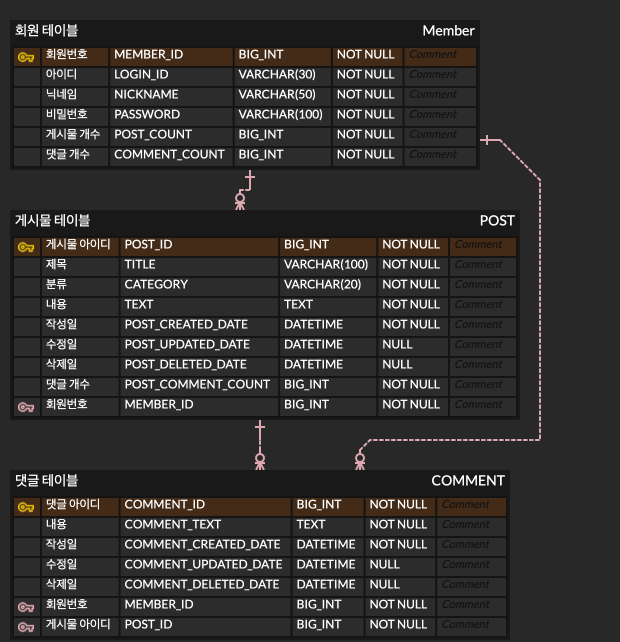
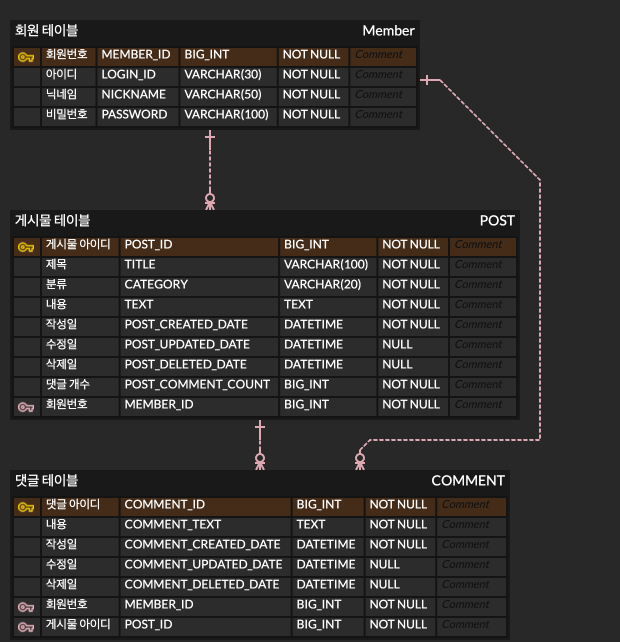
Chore: README.md, ERD 수정

diff --git a/README.md b/README.md
@@ -15,39 +15,37 @@
             - 로그인 시 회원 전용 기능(게시물, 댓글 관리) 사용 가능
         - 로그아웃
     - 회원정보 조회 기능
-        - 아이디(중복 불가, 생성 후 변경 불가)
+        - 아이디(변경 불가)
         - 닉네임 확인 및 변경(중복 불가)
         - 비밀번호 변경
         - 작성한 게시물, 댓글 개수 확인
 - 게시물
     - 전체 게시물 조회 기능
         - 게시물 정렬 기능(최신순, 오래된 순, 댓글 많은 순, 댓글 적은 순)
-        - 페이징 처리(10개씩)
-    - 게시물 검색 기능(제목, 분류, 작성자, 작성일 기준으로)
+        - 페이징 처리
+    - 게시물 검색 기능(제목, 분류, 닉네임, 작성일 & 회원번호(회원 페이지에서 본인이 작성한 게시글 조회를 위해))
     - 로그인 시
-        - 본인이 작성한 게시물 조회 기능(회원페이지에서)
-        - 게시물 작성 기능
-        - 게시물 수정 기능
-          - 수정 시 수정일 등록
-        - 게시물 삭제 기능
-          - 삭제 시 삭제일 등록
+        - 본인이 작성한 게시물 조회 기능(회원페이지에서 사용, 위에서 개발한 게시물 검색 기능 이용)
+        - 게시물 작성, 수정, 삭제 기능
+        - 회원별 게시글 개수 확인 api
 - 댓글
     - 게시물 조회 시 전체 댓글 조회 기능
-        - 페이징 처리(15개씩)
+        - 페이징 처리
     - 로그인 시
         - 본인이 작성한 댓글 조회 기능(회원페이지에서)
-        - 댓글 작성 기능 
-        - 댓글 수정 기능
-          - 수정 시 수정일 등록
-        - 댓글 삭제 기능
-          - 삭제 시 삭제일 등록
+        - 댓글 작성, 수정, 삭제 기능
+        - 회원별 댓글 개수 확인 api
 - 추후 추가 예정
     - 회원 등급 : 웰컴, 패밀리
         - 웰컴 : 회원가입 시 등급
         - 패밀리 : 게시물 10개, 댓글 10개 작성 시 자동으로 승급
-        - 등급에 따른 혜택은 추후 설정
+        - 등급에 따른 혜택은 추후 고민 예정
+        - 회원 등급 심사 기능
+            - 심사 버튼을 누르면 회원의 게시물, 댓글 개수가 승급 기준에 맞는 지 확인 후 승급되는 기능
     - 추천, 비추천 : 게시물, 댓글에 대해 추천 및 비추천을 할 수 있는 기능
     - 삭제 시 30일이 지나면 DB에서도 삭제되는 기능
+    - 회원 프로필 사진 기능
+    - 게시물에 사진 첨부 기능
 
 # 페이지 구성 예상도 (실제 구현은 추후에)
 
